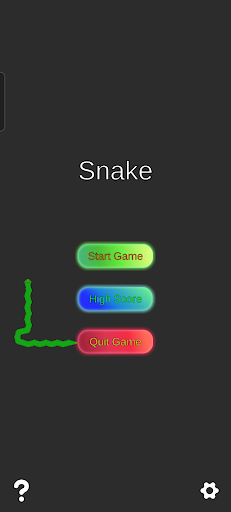
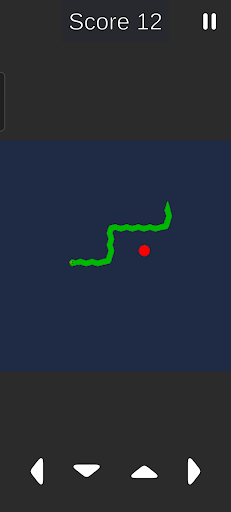
UI fixes.

diff --git a/src/styles/components.css b/src/styles/components.css
@@ -304,7 +304,6 @@
   display: flex;
   gap: 4px;
   flex-wrap: wrap;
-  flex-shrink: 0;
 }
 
 .card-cleared {
@@ -355,6 +354,7 @@
   color: var(--muted);
   display: -webkit-box;
   -webkit-line-clamp: 2;
+  line-clamp: 2;
   -webkit-box-orient: vertical;
   overflow: hidden;
 }
@@ -818,6 +818,10 @@
 /* === Modals === */
 .pixel-modal {
   position: fixed;
+  top: 50%;
+  left: 50%;
+  transform: translate(-50%, -50%);
+  margin: 0;
   z-index: 150;
   background: var(--panel);
   border: 2px solid var(--border);
@@ -1286,17 +1290,12 @@
   margin-top: 20px;
 }
 
-/* Two-column body */
+/* Two-column body removed for normal stacking */
 .case-content {
-  display: grid;
+  display: flex;
+  flex-direction: column;
   gap: var(--grid-gap);
   padding-block: var(--sp-12);
-}
-
-@media (min-width: 1024px) {
-  .case-content {
-    grid-template-columns: 8fr 4fr;
-  }
 }
 
 .prose {
@@ -1591,26 +1590,46 @@
 
 .gallery {
   display: flex;
-  gap: 8px;
+  gap: 16px;
   overflow-x: auto;
-  padding-bottom: 8px;
+  padding-bottom: 16px;
 }
 
 .gallery-item {
-  width: 120px;
-  height: 68px;
-  object-fit: cover;
-  border: 2px solid var(--border);
-  cursor: pointer;
+  width: 280px;
   flex-shrink: 0;
-  opacity: 0.6;
-  transition: opacity var(--dur-fast) ease, border-color var(--dur-fast) ease;
+  display: flex;
+  flex-direction: column;
+  gap: 8px;
 }
 
-.gallery-item:hover,
-.gallery-item.is-active {
-  opacity: 1;
+.gallery-link {
+  display: block;
+  width: max-content;
+  max-width: 100%;
+  border: 2px solid var(--border);
+  overflow: hidden;
+  background: var(--bg-deep);
+  transition: border-color var(--dur-fast) ease;
+  margin: 0 auto;
+}
+
+.gallery-link:hover {
   border-color: var(--accent-yellow);
+}
+
+.gallery-img {
+  width: auto;
+  height: auto;
+  max-width: 100%;
+  max-height: 200px;
+  display: block;
+}
+
+.gallery-caption {
+  font-size: var(--fs-body-sm);
+  color: var(--text);
+  text-align: center;
 }
 
 /* === Footer === */
@@ -2324,7 +2343,7 @@
   word-break: break-word;
   overflow-wrap: break-word;
 }
-.section-desc { font-size: var(--fs-body); color: var(--muted); max-width: 60ch; }
+.section-desc { font-size: var(--fs-body); color: var(--muted); max-width: 60ch; margin-inline: auto; }
 .container--hero { max-width: var(--container-max); }
 .container--sm { max-width: 800px; }
 .text-center { text-align: center; }
@@ -2449,7 +2468,8 @@
 .case-file { background: var(--panel); border: 2px solid var(--border); padding: 24px; }
 .case-media-hero { position: relative; aspect-ratio: 16/9; margin-block: 24px; background: var(--bg-deep); overflow: hidden; border: 2px solid var(--border); }
 .case-img-full, .case-video-full { width: 100%; height: 100%; object-fit: cover; }
-.case-stage { display: inline-block; padding: 4px 8px; font-family: var(--font-display); font-size: var(--fs-chip); text-transform: uppercase; background: var(--accent-yellow); color: var(--accent-yellow-ink); border: 1px solid var(--border); margin-bottom: 12px; }
+.case-meta-top { display: flex; align-items: center; gap: 8px; margin-bottom: 16px; flex-wrap: wrap; }
+.case-stage { display: inline-block; padding: 4px 8px; font-family: var(--font-display); font-size: var(--fs-chip); text-transform: uppercase; background: var(--accent-yellow); color: var(--accent-yellow-ink); border: 1px solid var(--border); }
 .case-title { font-size: var(--fs-h1-inner); margin-bottom: 16px; }
 .case-grid-meta { display: grid; grid-template-columns: repeat(auto-fit, minmax(120px, 1fr)); gap: 16px; margin-bottom: 24px; }
 .case-meta-item { display: flex; flex-direction: column; gap: 4px; }
@@ -2461,6 +2481,8 @@
 .key-systems-grid { display: grid; gap: 16px; grid-template-columns: 1fr; }
 @media (min-width: 768px) { .key-systems-grid { grid-template-columns: 1fr 1fr; } }
 .key-system-card { background: var(--bg-deep); padding: 16px; border: 1px solid var(--border); }
+.key-system-title { font-family: var(--font-display); font-size: var(--fs-h3); margin-bottom: 12px; word-break: break-word; overflow-wrap: break-word; color: var(--text); line-height: 1.4; }
+.key-system-detail { color: var(--text); }
 .boss-fight-header, .scope-note-header { display: flex; align-items: center; gap: 12px; margin-bottom: 16px; }
 .scope-grid { display: grid; gap: 24px; margin-top: 16px; grid-template-columns: 1fr; }
 @media (min-width: 640px) { .scope-grid { grid-template-columns: 1fr 1fr; } }

diff --git a/src/scripts/achievements.ts b/src/scripts/achievements.ts
@@ -7,10 +7,61 @@ class AchievementManager {
   private totalAchievements = ACHIEVEMENTS.length;
 
   constructor() {
-    this.toastContainer = document.getElementById('toast-container');
     this.loadState();
     this.bindEvents();
+    
+    // Initial setup
+    this.toastContainer = document.getElementById('toast-container');
+    this.rebindDOM();
     this.updateUI();
+    
+    // Re-bind DOM elements on view transition
+    document.addEventListener('astro:page-load', () => {
+      this.toastContainer = document.getElementById('toast-container');
+      this.rebindDOM();
+      this.updateUI();
+    });
+  }
+
+  private rebindDOM() {
+    // Coin clicks (using event delegation to avoid double binding is safer, 
+    // but here we just safely bind if not bound)
+    document.querySelectorAll('.pixel-coin').forEach(coinEl => {
+      const btn = coinEl as HTMLButtonElement;
+      if (btn.dataset.bound) return;
+      btn.dataset.bound = 'true';
+      btn.addEventListener('click', (e) => {
+        const coinId = parseInt(btn.dataset.coinId || '0');
+        if (coinId && !this.collectedCoins.has(coinId)) {
+          this.collectedCoins.add(coinId);
+          btn.classList.add('is-collected');
+          btn.setAttribute('aria-label', 'Coin Collected');
+          
+          if ((window as any).SoundManager) {
+            (window as any).SoundManager.play('coin');
+          }
+          
+          btn.classList.add('is-hidden');
+          this.saveState();
+          this.updateUI();
+          this.checkCoinAchievements();
+        }
+      });
+    });
+
+    // Email copy
+    const copyBtn = document.getElementById('btn-copy-email');
+    if (copyBtn && !copyBtn.dataset.bound) {
+      copyBtn.dataset.bound = 'true';
+      copyBtn.addEventListener('click', () => {
+        const emailInput = document.getElementById('contact-email-input') as HTMLInputElement;
+        if (emailInput) {
+          navigator.clipboard.writeText(emailInput.value).then(() => {
+            this.unlock('hello-world');
+          });
+        }
+      });
+    }
   }
 
   private loadState() {
@@ -38,46 +89,6 @@ class AchievementManager {
     window.addEventListener('achievement-unlocked', ((e: CustomEvent) => {
       this.unlock(e.detail.id);
     }) as EventListener);
-
-    // Coin clicks
-    document.querySelectorAll('.pixel-coin').forEach(coinEl => {
-      coinEl.addEventListener('click', (e) => {
-        const btn = e.currentTarget as HTMLButtonElement;
-        const coinId = parseInt(btn.dataset.coinId || '0');
-        
-        if (coinId && !this.collectedCoins.has(coinId)) {
-          this.collectedCoins.add(coinId);
-          btn.classList.add('is-collected');
-          btn.setAttribute('aria-label', 'Coin Collected');
-          
-          if ((window as any).SoundManager) {
-            (window as any).SoundManager.play('coin');
-          }
-          
-          setTimeout(() => {
-            btn.classList.add('is-hidden');
-            this.saveState();
-            this.updateUI();
-            this.checkCoinAchievements();
-          }, 800);
-        }
-      });
-    });
-
-    // Email copy
-    const copyBtn = document.getElementById('btn-copy-email');
-    if (copyBtn) {
-      copyBtn.addEventListener('click', () => {
-        const emailInput = document.getElementById('contact-email-input') as HTMLInputElement;
-        if (emailInput) {
-          navigator.clipboard.writeText(emailInput.value).then(() => {
-            this.unlock('hello-world');
-          });
-        }
-      });
-    }
-
-
   }
 
   private checkCoinAchievements() {
@@ -106,6 +117,7 @@ class AchievementManager {
   }
 
   private showToast(achievement: typeof ACHIEVEMENTS[0]) {
+    this.toastContainer = document.getElementById('toast-container');
     if (!this.toastContainer) return;
     
     const toast = document.createElement('div');

diff --git a/src/scripts/state.ts b/src/scripts/state.ts
@@ -275,7 +275,7 @@ class StateManager {
       const track = card.dataset.track;
       
       if (filter === 'all' || track === filter || track === 'both') {
-        card.style.display = 'flex';
+        card.style.display = '';
         visibleCount++;
       } else {
         card.style.display = 'none';
